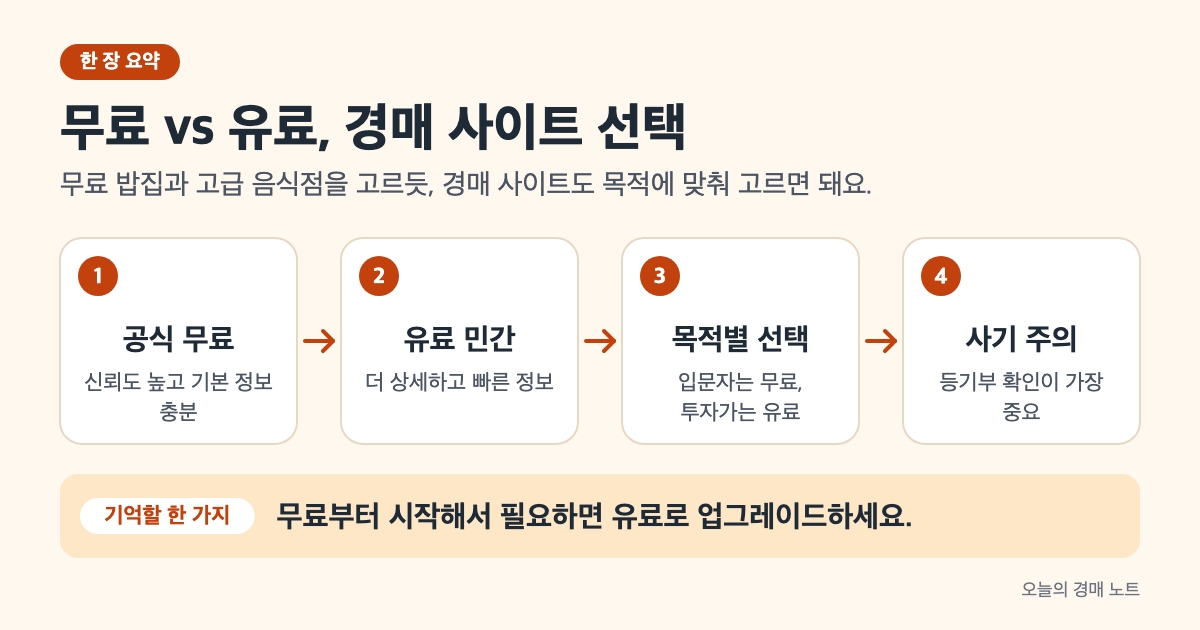
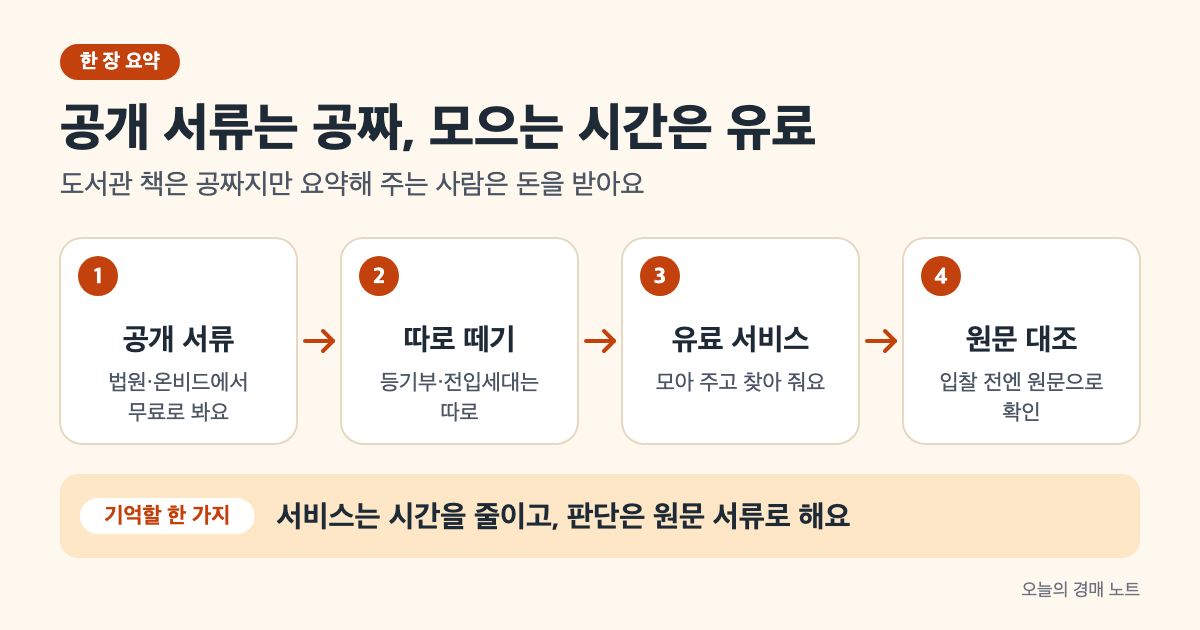
가이드 고쳐쓰기: 경매 사이트 비교 — 허용 밖 출처·요금 수치 삭제, 법령 기준 재작성

diff --git a/content/guide/auction-site-comparison/index.md b/content/guide/auction-site-comparison/index.md
@@ -1,125 +1,88 @@
 ---
-title: 경매 사이트 무료 vs 유료, 뭘 써야 할까
+title: 경매 사이트, 무료 공식 자료로 충분할까
 author: rich-batch
 date: 2026-09-19
-lastmod: 2026-09-19
+lastmod: 2026-10-11
 draft: false
 volatile: false
 categories: ["경매 절차"]
-tags: ["경매 사이트", "법원경매정보", "경매마당", "온비드", "사이트 비교"]
-description: 경매 입찰을 시작하려면 일단 물건을 찾아야 하는데, 무료 공식 사이트와 유료 민간 사이트 중 뭘 써야 할까. 비용과 정보량으로 비교한 사이트 선택 기준.
+tags: ["경매 사이트", "법원경매정보", "온비드", "매각물건명세서", "등기부", "사이트 비교"]
+description: 권리분석에 필요한 핵심 서류는 법이 공개하도록 정해 둬서 법원경매정보와 온비드에서 무료로 볼 수 있습니다. 무료로 안 되는 자료와 유료 경매정보 서비스가 대신해 주는 것을 법령 기준으로 나눠 봅니다.
 showToc: true
 TocOpen: true
 cover:
   image: "eli5-overview.png"
-  alt: "무료 공식 사이트에서 유료 민간 사이트로 넘어가는 네 단계를 화살표로 연결한 도식, 각 단계의 특징과 장점을 보여줌"
-  caption: "무료부터 시작해서 필요하면 유료로 업그레이드하는 게 가장 현명한 경매 사이트 선택 전략입니다."
+  alt: "법원경매정보와 온비드의 무료 공개 서류, 등기부·전입세대 같은 따로 떼는 서류, 유료 서비스가 모아 주는 편의, 원문 대조의 네 칸 흐름도"
+  caption: "유료 서비스는 자료를 사는 게 아니라 모으는 시간을 사는 것이고, 판단은 늘 원문으로 합니다"
 ---
 
-경매 물건을 찾으려면 가장 먼저 "어디서 찾을까"를 정해야 합니다. 공식 사이트, 경매마당, 민간 정보 사이트까지 선택지가 많은데, 비용도 다르고 제공하는 정보도 다릅니다.
+경매 물건을 고르고 권리분석을 하는 데 필요한 핵심 서류는 **법이 누구나 볼 수 있게 공개하도록 정해 둔 자료**입니다. 법원 경매는 매각물건명세서·현황조사보고서·감정평가서를 누구든지 볼 수 있게 해야 하고([민사집행법 제105조](https://www.law.go.kr/법령/민사집행법/제105조)), 세금 체납 압류재산 공매도 공매재산명세서와 감정가 자료를 입찰자가 열람할 수 있게 게시해야 해요([국세징수법 제77조](https://www.law.go.kr/법령/국세징수법/제77조)). 그래서 "무료 사이트로 권리분석이 되나"라는 질문의 답은 "서류는 된다"입니다.
 
-입문자라면 무료 공식 사이트만으로도 충분하지만, 활발하게 투자하려면 유료 사이트의 속도와 상세도가 필요할 수도 있습니다. 어떤 조합을 선택하는지가 정보 입수 효율과 비용을 크게 좌우합니다.
-
-이 글은 2026년 9월 19일 기준 주요 경매 사이트를 무료/유료, 범위, 검색 기능으로 정리한 것입니다.
+유료 경매정보 서비스가 파는 건 이 서류가 아니라, 여러 공공 자료를 한 화면에 모아 주고 검색·알림·통계로 가공해 주는 편의예요. 이 글은 2026년 10월 11일 기준 법령과 공식 사이트로 무료 자료와 따로 비용이 드는 자료를 나눴습니다. 유료 서비스의 요금과 기능은 수시로 바뀌고 공식 자료로 확인할 수 없어 다루지 않았으니, 쓰기 전에 각 서비스의 요금 안내를 직접 보세요.
 
 > **핵심 요약**
-> - 입문자는 무료 공식 사이트(대법원/경매마당)만으로도 충분
-> - 본격적으로 투자하려면 유료 사이트로 정보 속도와 상세도를 사야 할 수도 있음
-> - 비용 대비 정보량에서 가성비 최고는 탱크옥션, 가장 상세한 정보는 지지옥션
+> - 매각물건명세서·현황조사보고서·감정평가서는 법원경매정보, 공매재산명세서는 온비드에서 무료로 봅니다.
+> - 등기부는 인터넷 열람 1건 700원이고([등기사항증명서 등 수수료규칙 제3조](https://www.law.go.kr/법령/등기사항증명서등수수료규칙/제3조)), 유료 서비스를 써도 판단은 원문 서류로 합니다.
 
-## 공식 무료 사이트 3곳: 수수료 없이 무조건 봐야 할 곳
+## 법이 공개하게 한 서류는 무료로 본다
 
-가장 기본이 되는 건 공식 사이트들입니다. 정부 또는 공공기관이 직접 운영하므로 신뢰도는 최고인 데다 정보도 가장 정확합니다.
+법원 경매의 핵심은 매각물건명세서입니다. 부동산의 표시, 점유자와 점유 권원, 매각으로 없어지지 않는 권리, 법정지상권의 개요를 법원이 적어야 하는 문서라서([민사집행법 제105조](https://www.law.go.kr/법령/민사집행법/제105조)) 인수할 권리가 있는지 판단하는 출발점이죠. 법원은 이 명세서와 현황조사보고서·감정평가서 사본을 매각기일 1주 전까지 비치해야 하고, 전자통신매체로 공시하는 것으로 비치를 대신할 수 있습니다([민사집행규칙 제55조](https://www.law.go.kr/법령/민사집행규칙/제55조)). 법원경매정보 사이트에서 이 서류를 볼 수 있는 이유가 이 조항이에요.
 
-### 대법원 법원경매정보 (courtauction.go.kr)
+| 자료 | 어디서 | 법적 근거 | 비용 |
+|---|---|---|---|
+| 매각물건명세서·현황조사보고서·감정평가서 | 법원경매정보 | 민사집행법 제105조, 민사집행규칙 제55조 | 무료 |
+| 공매재산명세서·감정가 자료 | 온비드 | 국세징수법 제77조 | 무료 |
+| 공매공고(대금납부기한·매각결정기일·인수 권리 등) | 온비드 | 국세징수법 제72조 | 무료 |
+| 등기기록 열람 | 인터넷등기소 | 등기사항증명서 등 수수료규칙 제3조 | 1건 700원 |
+| 등기사항증명서 발급 | 인터넷등기소 | 등기사항증명서 등 수수료규칙 제2조 | 1통 1,000원 |
+| 실거래가 | 국토교통부 실거래가 공개시스템 | — | 무료 |
 
-부동산과 동산(자동차, 골동품 등) 경매의 모든 것을 한곳에서 찾을 수 있는 공식 사이트입니다. 회원가입 없이 누구나 무료로 접근할 수 있고, 감정평가액부터 현황조사서, 감정평가서까지 전부 확인할 수 있습니다.
+출처: [민사집행법 제105조](https://www.law.go.kr/법령/민사집행법/제105조) · [민사집행규칙 제55조](https://www.law.go.kr/법령/민사집행규칙/제55조) · [국세징수법 제72조·제77조](https://www.law.go.kr/법령/국세징수법/제77조) · [등기사항증명서 등 수수료규칙](https://www.law.go.kr/법령/등기사항증명서등수수료규칙/제3조) · [국토교통부 실거래가 공개시스템](https://rt.molit.go.kr/) (2026년 10월 11일 기준)
 
-다만 인터페이스가 조금 딱딱하고, 고급 검색 기능(지역별·가격대별 필터 등)이 부족합니다. 특정 물건이 정해져 있거나 기본 정보만 필요하다면 충분하지만, "이 가격대의 물건들을 모두 보고 싶다"는 식의 광범위한 검색에는 불편합니다.
+공매도 구조가 같습니다. 세무서장은 공매재산명세서에 점유자와 점유 권원, 배분요구 현황, 매수인이 인수하는 권리를 적고, 입찰서 제출 시작 7일 전부터 마감 전까지 정보통신망에 게시해야 해요([국세징수법 제77조](https://www.law.go.kr/법령/국세징수법/제77조)). 공매공고에는 대금납부기한과 매각결정기일, 인수할 지상권·전세권·대항력 있는 임차권도 들어갑니다([국세징수법 제72조](https://www.law.go.kr/법령/국세징수법/제72조)).
 
-### 경매마당 (madangs.com)
+## 따로 떼야 하는 서류: 등기부와 전입세대
 
-경매마당은 대법원 부동산 경매를 중심으로 다루는 사이트인데, 무료면서도 유료 사이트 수준의 상세한 정보를 제공하는 게 특징입니다. 건물 등기부, 임차인 현황 같은 내용도 무료로 볼 수 있어서, 무료 사이트라고 해서 정보가 부족하다고 느끼기 어렵습니다.
+무료 공개 서류만으로 끝나지 않는 부분이 있습니다. 매각물건명세서는 매각으로 없어지지 않는 권리만 적는 문서라([민사집행법 제105조](https://www.law.go.kr/법령/민사집행법/제105조)), 근저당·가압류가 어떤 순서로 붙었는지 전체 흐름은 등기부를 직접 열람해 확인해야 해요. 인터넷등기소 열람은 1건 700원, 증명서 발급은 1통 1,000원입니다([등기사항증명서 등 수수료규칙 제2조·제3조](https://www.law.go.kr/법령/등기사항증명서등수수료규칙/제3조)).
 
-인터페이스도 대법원 공식 사이트보다 훨씬 친화적이고, 검색 기능도 더 풍부합니다. 부동산만 다루지만, 그만큼 부동산 경매에 특화되어 있다는 뜻입니다.
+임차인이 있는 집이라면 전입세대확인서도 봐야 합니다. 해당 주소에 주민등록된 세대주와 동거인의 전입일자를 확인하는 서류인데, 주민등록법은 경매에 참가하려는 사람에게 열람·교부 신청 자격을 주고 있어요([주민등록법 제29조의2](https://www.law.go.kr/법령/주민등록법/제29조의2)). 신청할 때는 신분증명서와 경매 참가자임을 증명하는 서류를 내야 하고([주민등록법 시행령 제49조의2](https://www.law.go.kr/법령/주민등록법시행령/제49조의2)), 주민센터에서 받는 서류라 사이트 화면만으로는 대신할 수 없습니다.
 
-### 캠코 온비드 (onbid.co.kr)
+## 유료 서비스가 파는 것은 시간이다
 
-한국자산관리공사(캠코)가 운영하는 공매 플랫폼입니다. 경매(법원)와 공매(정부)는 다른데, 공매 물건을 찾으려면 온비드를 써야 합니다. 마찬가지로 무료이고, 공시지가·감정평가서·현황사진도 제공합니다.
+유료 경매정보 서비스는 위 공공 자료를 모아 한 화면에 정리하고, 지역·가격 조건으로 검색하거나 새 물건 알림을 보내고, 과거 낙찰 결과를 통계로 보여 주는 식으로 시간을 줄여 줍니다. 원본은 같은 공공 자료라서, 유료 서비스가 정리한 내용과 법원·온비드의 원문이 다르면 원문이 기준이에요. 법도 매각물건명세서 작성에 중대한 흠이 있으면 매각허가에 대한 이의 사유로 삼는데([민사집행법 제121조](https://www.law.go.kr/법령/민사집행법/제121조)), 그 기준은 법원 서류지 민간 서비스의 요약이 아니에요.
 
-## 유료 민간 사이트 5개: 속도와 정보량으로 따지면 어디가 낫나
+이 블로그도 같은 방식으로 일합니다. [물건 분석]({{< relref "/analysis" >}}) 글은 법원경매정보와 온비드에 공개된 서류에서 사실을 옮기고, 인수·소멸 판단은 계산 도구가 정하며, 서류로 확인하지 못한 것은 "입찰 전 확인할 것"으로 따로 적어요. 유료 서비스를 쓰든 이런 정리 글을 읽든, 마지막 확인은 원문 서류로 해야 한다는 점은 같습니다.
 
-공식 사이트만으로는 부족하다고 느끼는 투자자들이 선택하는 게 유료 민간 사이트입니다. 월 2만원대부터 연 150만원대까지 비용 차이가 크므로, 각 사이트의 가성비를 따져 봐야 합니다([오늘의 소식](https://thetip.co.kr/%EB%8C%80%EB%B2%95%EC%9B%90-%EA%B2%BD%EB%A7%A4-%EC%A0%95%EB%B3%B4-%EC%82%AC%EC%9D%B4%ED%8A%B8/), 2026년 9월 기준).
+## 어떤 경우에 유료가 값을 하는가
 
-| 사이트 | 월 요금 | 연 요금 | 최저가 기준 | 주요 강점 |
-|---|---|---|---|---|
-| 탱크옥션 | 2만원대 | 50만원 | 가성비 최고 | 가장 저렴, 기본 기능 충실 |
-| 굿옥션 | 2만원대 | 92.6만원 | 뉴스 검색 | 낙찰 결과 빠르고, 뉴스 기사 검색 가능 |
-| 스피드옥션 | 8.4만원 | 65만원 | 동영상 강좌 | 초보자 맞춤 강좌 충실, 지하철 노선도 검색 |
-| 지지옥션 | 2만원대 | 114.7만원 | 가장 상세 | 정보 가장 풍부, 은행 채권자 검색 가능 |
+제 판단으로는 볼 물건의 수가 기준입니다. 한 지역에서 한두 건을 보는 단계라면 법원경매정보·온비드에서 서류를 보고, 등기부를 700원에 열람하고([등기사항증명서 등 수수료규칙 제3조](https://www.law.go.kr/법령/등기사항증명서등수수료규칙/제3조)), 실거래가 공개시스템에서 시세를 확인하는 것으로 권리분석과 가격 판단에 필요한 자료는 다 모입니다. 비용은 열람 수수료 몇천 원이에요.
 
-출처: [오늘의 소식, "대법원 경매 정보 사이트 5개 비교, 이용권 요금과 장단점"](https://thetip.co.kr/%EB%8C%80%EB%B2%95%EC%9B%90-%EA%B2%BD%EB%A7%A4-%EC%A0%95%EB%B3%B4-%EC%82%AC%EC%9D%B4%ED%8A%B8/) (2026년 9월 기준)
-
-*실제 요금은 사이트 접속 후 재확인 권장*
-
-### 탱크옥션: 비용을 아끼려면
-
-가성비가 가장 좋습니다. 월 2만원대([오늘의 소식](https://thetip.co.kr/%EB%8C%80%EB%B2%95%EC%9B%90-%EA%B2%BD%EB%A7%A4-%EC%A0%95%EB%B3%B4-%EC%82%AC%EC%9D%B4%ED%8A%B8/), 2026년 9월 기준)면 기본적인 정보 조회는 무난합니다. 특별한 기능을 찾는 게 아니라면, 경매마당 다음으로 무난하게 쓸 수 있는 사이트입니다.
-
-### 굿옥션: 낙찰 결과를 빨리 알고 싶다면
-
-낙찰 후 결과 공시가 빠르고, 낙찰자 동향을 빨리 파악할 수 있습니다. 뉴스 기사 검색 기능도 있어서, 특정 지역의 경매 관련 기사를 한곳에서 모아 볼 수 있습니다.
-
-### 스피드옥션: 경매 입문자라면
-
-동영상 강좌가 충실하고, 지하철 노선도를 이용한 검색 기능(아파트 역세권 확인 등)이 있어서 초보자가 물건을 이해하기 쉽습니다. 연 이용권 구매 시 경매 관련 책자도 무료로 줍니다.
-
-### 지지옥션: 정보 양으로 따지면 최강
-
-정보가 가장 상세합니다. 은행 채권자를 검색할 수 있고, 사건 기록도 상세히 볼 수 있습니다. 가격이 가장 비싸지만(연 114.7만원대, [오늘의 소식](https://thetip.co.kr/%EB%8C%80%EB%B2%95%EC%9B%90-%EA%B2%BD%EB%A7%A4-%EC%A0%95%EB%B3%B4-%EC%82%AC%EC%9D%B4%ED%8A%B8/), 2026년 9월 기준), 정보량만으로 따지면 투자 규모가 큰 사람에게는 그만한 가치가 있습니다.
-
-## 사기 위험을 확인할 수 있나?
-
-경매 사기는 주로 신원 미상의 중개인이나 허위 매물이 문제입니다. 각 사이트가 이런 정보를 얼마나 커버하는지가 사이트 선택의 중요한 기준이 될 수 있습니다.
-
-## 무엇부터 시작할까: 사용자별 추천
-
-**경매를 처음 생각하는 단계**
-- 경매마당으로 물건들을 둘러보기만 하세요. 기본 정보는 충분합니다.
-
-**본격적으로 물건을 찾으려는 단계**
-- 탱크옥션이나 굿옥션 같은 저가 유료 사이트를 1~2달 써보세요. 월 2만원대([오늘의 소식](https://thetip.co.kr/%EB%8C%80%EB%B2%95%EC%9B%90-%EA%B2%BD%EB%A7%A4-%EC%A0%95%EB%B3%B4-%EC%82%AC%EC%9D%B4%ED%8A%B8/), 2026년 9월 기준)는 한 물건의 입찰 보증금보다 훨씬 저렴하니까요.
-
-**투자를 규모 있게 하려는 단계**
-- 지지옥션 같은 상세 정보 사이트를 고려하세요. 특히 여러 지역의 물건을 자주 본다면, 한두 물건을 더 정확히 판단하는 것만으로 연 이용료를 벌 수 있습니다.
+여러 지역을 매주 훑으며 후보를 수십 건씩 거르는 단계라면 얘기가 다릅니다. 같은 조건을 매번 두 사이트에서 따로 검색하고, 등기부를 건마다 따로 열람하고, 과거 낙찰가를 하나하나 찾는 시간이 쌓이니까요. 이때는 유료 서비스의 무료 체험이나 단기 이용권으로 내가 실제로 줄이는 시간이 얼마인지 재 보고 정하는 걸 권합니다. 어느 쪽이든 입찰하기로 정한 물건은 원문 서류로 다시 확인하고요.
 
 ## 자주 묻는 질문
 
-### Q. 정말 무료 사이트만 써도 되나요?
+### Q. 무료 사이트만으로 권리분석이 되나요?
 
-네, 초보자는 충분합니다. 다만 세 가지 한계가 있습니다: 첫째, 광범위한 검색이 불편하고, 둘째, 새 물건 공시가 조금 늦으며, 셋째, 상세한 시장 정보(낙찰률, 평균 가격 등)를 못 봅니다. 처음엔 느려 보이지만, 한두 물건을 정해놓고 보는 거라면 문제없습니다.
+서류는 됩니다. 매각물건명세서·현황조사보고서·감정평가서는 법원이 누구나 볼 수 있게 해야 하는 자료이고([민사집행법 제105조](https://www.law.go.kr/법령/민사집행법/제105조)), 공매재산명세서도 입찰 전 게시 대상이에요([국세징수법 제77조](https://www.law.go.kr/법령/국세징수법/제77조)). 여기에 등기부 열람과 필요하면 전입세대확인서를 더하면 됩니다. 실제 사건에 이 서류를 어떻게 대 보는지는 [물건 분석]({{< relref "/analysis" >}}) 글에서 볼 수 있어요.
 
-### Q. 여러 사이트를 동시에 써야 하나요?
+### Q. 경매와 공매를 한 사이트에서 다 볼 수 있나요?
 
-됩니다. 사실 대부분의 경매 베테랑들은 3~4개 사이트를 함께 봅니다. 각 사이트가 정보를 다 같은 속도로 업로드하지 않거든요. 꼭 필요한 사이트 2~3개를 정해서 쓰세요. 너무 많으면 관리가 힘듭니다.
+공식 사이트는 나뉘어 있습니다. 법원 경매는 법원경매정보, 압류재산 등 공매는 온비드예요. 두 제도의 기본 차이는 [경매란? 법원경매와 공매의 차이]({{< relref "/guide/what-is-auction" >}})에서 다룹니다.
 
-### Q. 가장 저렴한 조합은?
+### Q. 유료 서비스 정보가 틀려서 손해를 보면요?
 
-경매마당(무료) + 탱크옥션(월 2만원대, [오늘의 소식](https://thetip.co.kr/%EB%8C%80%EB%B2%95%EC%9B%90-%EA%B2%BD%EB%A7%A4-%EC%A0%95%EB%B3%B4-%EC%82%AC%EC%9D%B4%ED%8A%B8/), 2026년 9월 기준)의 조합입니다. 가성비를 잃지 않으면서도 기본 정보를 다 얻을 수 있습니다.
-
-### Q. 사기 물건을 피하는 데 유료 사이트가 도움이 되나요?
-
-어느 정도는 그렇습니다. 유료 사이트들은 사기 의심 물건이나 과거 사건 기록을 더 상세히 보여주는 경향이 있습니다. 하지만 근본적으로는 **현장 방문과 등기부 직접 확인**이 최고의 방어입니다. 사이트는 참고만 하세요.
-
-### Q. 경매마당 말고 다른 무료 사이트는 없나요?
-
-네이버 부동산, 다음 부동산도 월 3건까지 무료로 상세 조회를 제공합니다. 다만 부동산에만 특화되어 있고, 법원경매와 공매를 동시에 보기는 불편합니다. 경매 전문으로 본다면 경매마당이 낫습니다.
+판단의 기준이 되는 건 법원이 작성한 매각물건명세서와 공매재산명세서입니다([민사집행법 제105조](https://www.law.go.kr/법령/민사집행법/제105조) · [국세징수법 제77조](https://www.law.go.kr/법령/국세징수법/제77조)). 민간 서비스의 요약은 참고 자료일 뿐이니, 입찰을 결정한 물건은 반드시 원문과 대조하세요. 민간 서비스의 책임 범위는 각 서비스 이용약관을 확인해야 합니다.
 
 ## 참고 자료
 
-- [대법원 법원경매정보제공 시스템](https://www.courtauction.go.kr/) — 회원가입 없이 무료 이용, 부동산·동산 경매 정보 제공
-- [경매마당](https://madangs.com/) — 대법원 부동산 경매, 무료 상세 조회, 건물 등기부·임차인 현황 제공
-- [캠코 온비드](https://www.onbid.co.kr/) — 공매 물건 조회, 부동산·동산·선박 등 다양한 물건 무료 제공
-- 오늘의 소식, "[대법원 경매 정보 사이트 5개 비교, 이용권 요금과 장단점](https://thetip.co.kr/%EB%8C%80%EB%B2%95%EC%9B%90-%EA%B2%BD%EB%A7%A4-%EC%A0%95%EB%B3%B4-%EC%82%AC%EC%9D%B4%ED%8A%B8/)" — 유료 사이트별 요금과 기능 비교 (2026년 9월 기준)
-- APT랜드, "[부동산 경매 사이트 추천 BEST 4](https://aptland.co.kr/onbid-auction-items/)" — 공식 사이트와 무료 포털 정보 비교
-
+- [민사집행법 제105조 · 매각물건명세서 등](https://www.law.go.kr/법령/민사집행법/제105조) — 명세서 기재 사항, 사본을 비치해 누구든지 볼 수 있게 함 (2026-10-11 확인)
+- [민사집행규칙 제55조 · 매각물건명세서 사본 등의 비치](https://www.law.go.kr/법령/민사집행규칙/제55조) — 매각기일 1주 전까지 비치, 전자통신매체 공시로 갈음 (2026-10-11 확인)
+- [국세징수법 제72조 · 공매공고](https://www.law.go.kr/법령/국세징수법/제72조) — 공고 사항(대금납부기한, 매각결정기일, 인수 권리 등) (2026-10-11 확인)
+- [국세징수법 제77조 · 공매재산명세서의 작성 및 비치 등](https://www.law.go.kr/법령/국세징수법/제77조) — 명세서 기재 사항, 입찰서 제출 시작 7일 전부터 게시 (2026-10-11 확인)
+- [등기사항증명서 등 수수료규칙 제3조](https://www.law.go.kr/법령/등기사항증명서등수수료규칙/제3조) — 인터넷 열람 700원, 발급 1,000원(제2조) (2026-10-11 확인)
+- [주민등록법 제29조의2 · 전입세대확인서의 열람 또는 교부](https://www.law.go.kr/법령/주민등록법/제29조의2) — 경매참가자의 열람·교부 신청 자격 (2026-10-11 확인)
+- [주민등록법 시행령 제49조의2](https://www.law.go.kr/법령/주민등록법시행령/제49조의2) — 신청 시 신분증명서·입증 서류 (2026-10-11 확인)
+- [국토교통부 실거래가 공개시스템](https://rt.molit.go.kr/) — 실거래가 조회 (2026-10-11 확인)
+- [민사집행법 제121조 · 매각허가에 대한 이의신청사유](https://www.law.go.kr/법령/민사집행법/제121조) — 매각물건명세서 작성의 중대한 흠 (2026-10-11 확인)
+- [법원경매정보](https://www.courtauction.go.kr/) — 법원 경매 물건과 매각물건명세서 등 공개 (2026-10-11 확인)
+- [온비드](https://www.onbid.co.kr/) — 공매 물건, 공매공고와 공매재산명세서 공개 (2026-10-11 확인)

diff --git a/pipeline/guide/research/auction-site-comparison.md b/pipeline/guide/research/auction-site-comparison.md
@@ -14,10 +14,11 @@
 **같은 카테고리 이웃 키워드:**
 - 2번 경매 입찰 방법: 절차형이므로 중복 없음
 - 11번 법원경매 무료검색: 법원경매정보 사이트 사용법만 다루므로 중복 없음
-  - 차별점: 이 글은 여러 사이트를 비교해 선택 기준을 주는 비교형
-  - 제안: 11번에서 법원경매정보를 소개한 후 이 글으로 링크 가능
-
-**결론: 단독 작성 가능**
+  - 차별점:
+- 경쟁 글은 유료 사이트 요금·기능을 블로그 출처로 나열하지만, 이 글은 "권리분석 서류는 법이 공개를 의무화한 자료"라는 점을 민사집행법 제105조·민사집행규칙 제55조·국세징수법 제77조 원문으로 보여 준다
+- 무료로 안 되는 자료(등기부 열람 700원, 전입세대확인서 — 경매참가자 신청 자격)를 법령으로 구분
+- 유료 서비스는 자료가 아니라 시간을 판다는 판단과, 볼 물건 수를 기준으로 한 선택 기준
+- 경매마당을 "공식 사이트"로 소개한 이전 글의 오류 바로잡음(민간 서비스), 검증 못 하는 요금 수치는 싣지 않음
 
 ## 경쟁 글 비교
 
@@ -75,3 +76,22 @@
 - 활발한 투자자 → 유료 구독으로 효율 향상
 - 초보자 → 경매마당으로 상세 정보 확인 후 유료 사이트 전환
 
+
+
+### 2026-10-11 고쳐쓰기 — 공식 원문으로 전면 재작성 (이전 출처 thetip.co.kr·aptland.co.kr·madangs.com은 허용 출처 아님, 요금 수치 확인 불가로 삭제)
+
+| # | 확인한 내용 | 원문 인용 | 출처 | URL | 읽은 방법 |
+|---|---|---|---|---|---|
+| R1 | 매각물건명세서 기재 사항, 사본을 비치해 누구든지 볼 수 있게 함 | "매각물건명세서ㆍ현황조사보고서 및 평가서의 사본을 법원에 비치하여 누구든지 볼 수 있도록 하여야 한다" | 민사집행법 제105조 | https://www.law.go.kr/법령/민사집행법/제105조 | law.go.kr DRF API |
+| R2 | 매각기일 1주 전까지 비치, 전자통신매체 공시로 갈음 가능 | "기재내용을 전자통신매체로 공시함으로써 그 사본의 비치에 갈음할 수 있다" | 민사집행규칙 제55조 | https://www.law.go.kr/법령/민사집행규칙/제55조 | law.go.kr DRF API |
+| R3 | 매각물건명세서 작성의 중대한 흠은 매각허가 이의 사유 | "매각물건명세서의 작성에 중대한 흠이 있는 때" | 민사집행법 제121조 | https://www.law.go.kr/법령/민사집행법/제121조 | law.go.kr DRF API |
+| R4 | 공매공고 사항(대금납부기한, 매각결정기일, 인수 권리 등) | "매수대금을 납부하여야 할 기한", "매각결정기일" | 국세징수법 제72조 | https://www.law.go.kr/법령/국세징수법/제72조 | law.go.kr DRF API |
+| R5 | 공매재산명세서 기재 사항, 입찰서 제출 시작 7일 전부터 정보통신망 게시 | "입찰서 제출 시작 7일 전부터 입찰서 제출 마감 전까지 ... 정보통신망을 이용하여 게시함으로써" | 국세징수법 제77조 | https://www.law.go.kr/법령/국세징수법/제77조 | law.go.kr DRF API |
+| R6 | 인터넷 등기기록 열람 700원, 인터넷 발급 1,000원 | "인터넷을 통한 등기기록 ... 열람에 대한 수수료는 ... 700원으로 한다", "인터넷에 의한 등기사항증명서의 발급수수료는 1통에 대하여 1,000원" | 등기사항증명서 등 수수료규칙 제2조·제3조 | https://www.law.go.kr/법령/등기사항증명서등수수료규칙/제3조 | law.go.kr DRF API |
+| R7 | 전입세대확인서 열람·교부 신청 자격에 경매참가자 포함 | "경매참가자가 경매에 참가하려는 경우" | 주민등록법 제29조의2 | https://www.law.go.kr/법령/주민등록법/제29조의2 | law.go.kr DRF API |
+| R8 | 신청 시 신분증명서·자격 입증 서류 첨부 | "신청인이 법 제29조의2제2항 각 호의 어느 하나에 해당함을 입증하는 서류" | 주민등록법 시행령 제49조의2 | https://www.law.go.kr/법령/주민등록법시행령/제49조의2 | law.go.kr DRF API |
+| R9 | 공식 사이트 접속 확인 | — | 법원경매정보·온비드·실거래가 공개시스템 | https://www.courtauction.go.kr/ , https://www.onbid.co.kr/ , https://rt.molit.go.kr/ | curl |
+
+### 확인하지 못한 것
+- 유료 경매정보 서비스의 요금·기능(공식 자료 없음, 수시 변경) — 글에서 수치를 싣지 않고 각 서비스 요금 안내 확인을 권함
+- 전입세대확인서 열람 수수료 금액
